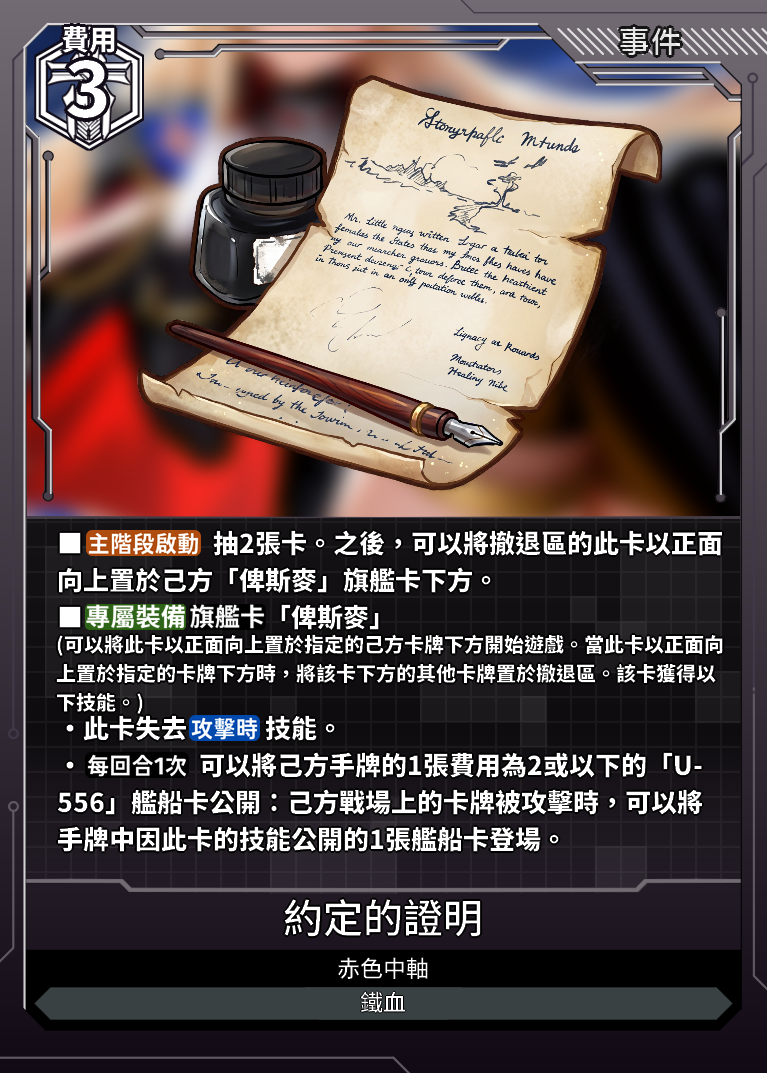
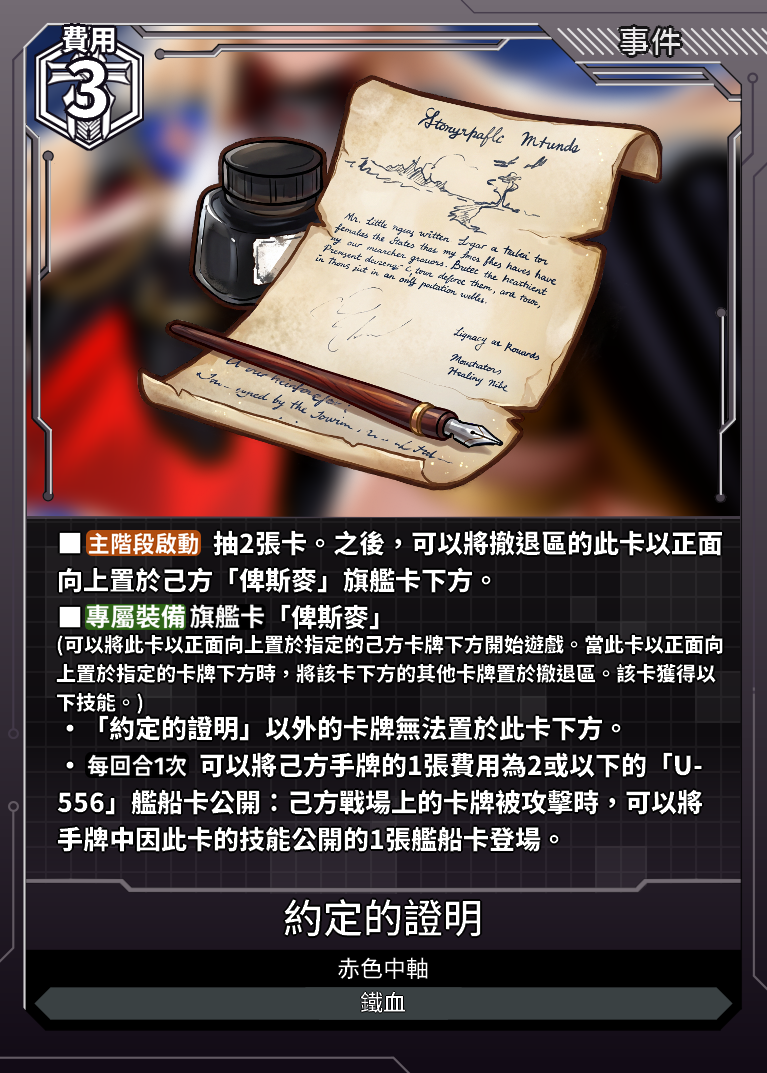
改約定的證明

Changed region(s): [[0.09, 0.6459, 0.7797, 0.7074]]

diff --git a/data.js b/data.js
@@ -27454,7 +27454,7 @@ const cards = [
             "支援範圍": "-",
             "支援值": "-"
         },
-        "card_effect": "■【主階段啟動】抽2張卡。之後，可以將撤退區的此卡以正面向上置於己方「俾斯麥」旗艦卡下方。■【專屬裝備】【旗艦卡】「俾斯麥」(可以將此卡以正面向上置於己方的旗艦卡下方開始遊戲。當此卡以正面向上置於指定的卡牌下方時，將該卡下方的其他卡牌置於撤退區。且該卡獲得以下技能。)・此卡失去【攻擊時】技能。・【每回合1次】可以將己方手牌的1張費用為2或以下的「U-556」艦船卡公開：己方戰場上的卡牌被攻擊時，可以將手牌中因此卡的技能公開的1張艦船卡登場。",
+        "card_effect": "■【主階段啟動】抽2張卡。之後，可以將撤退區的此卡以正面向上置於己方「俾斯麥」旗艦卡下方。■【專屬裝備】【旗艦卡】「俾斯麥」(可以將此卡以正面向上置於己方的旗艦卡下方開始遊戲。當此卡以正面向上置於指定的卡牌下方時，將該卡下方的其他卡牌置於撤退區。且該卡獲得以下技能。)・「約定的證明」以外的卡牌無法置於此卡下方。・【每回合1次】可以將己方手牌的1張費用為2或以下的「U-556」艦船卡公開：己方戰場上的卡牌被攻擊時，可以將手牌中因此卡的技能公開的1張艦船卡登場。",
         "acquisition_method": "CE03-早期測試"
     },
 	{
